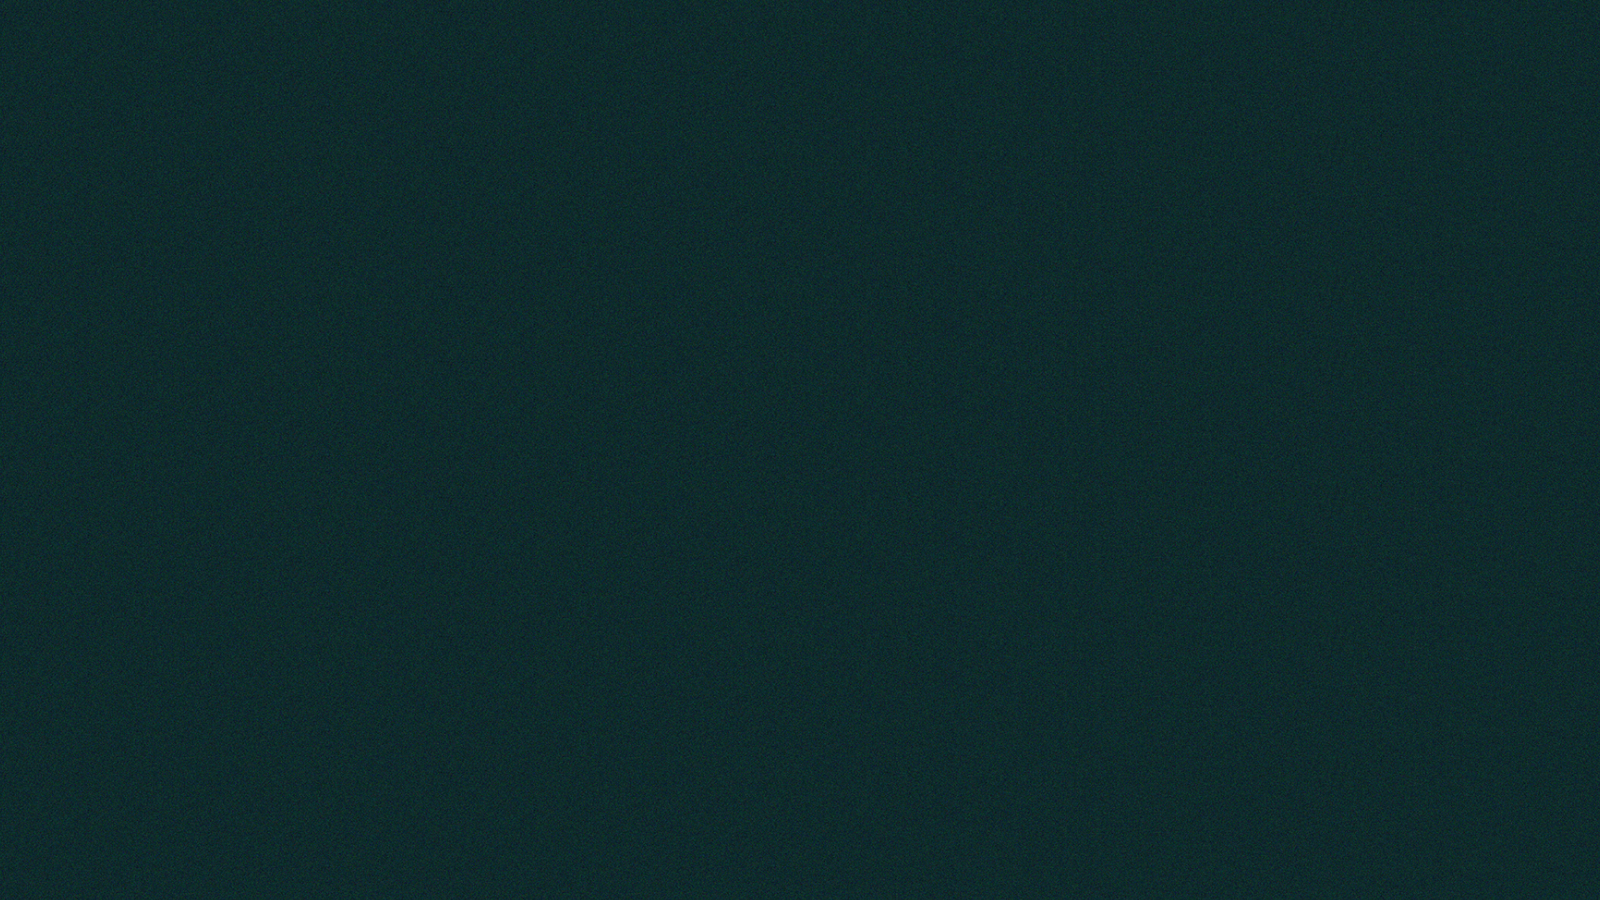
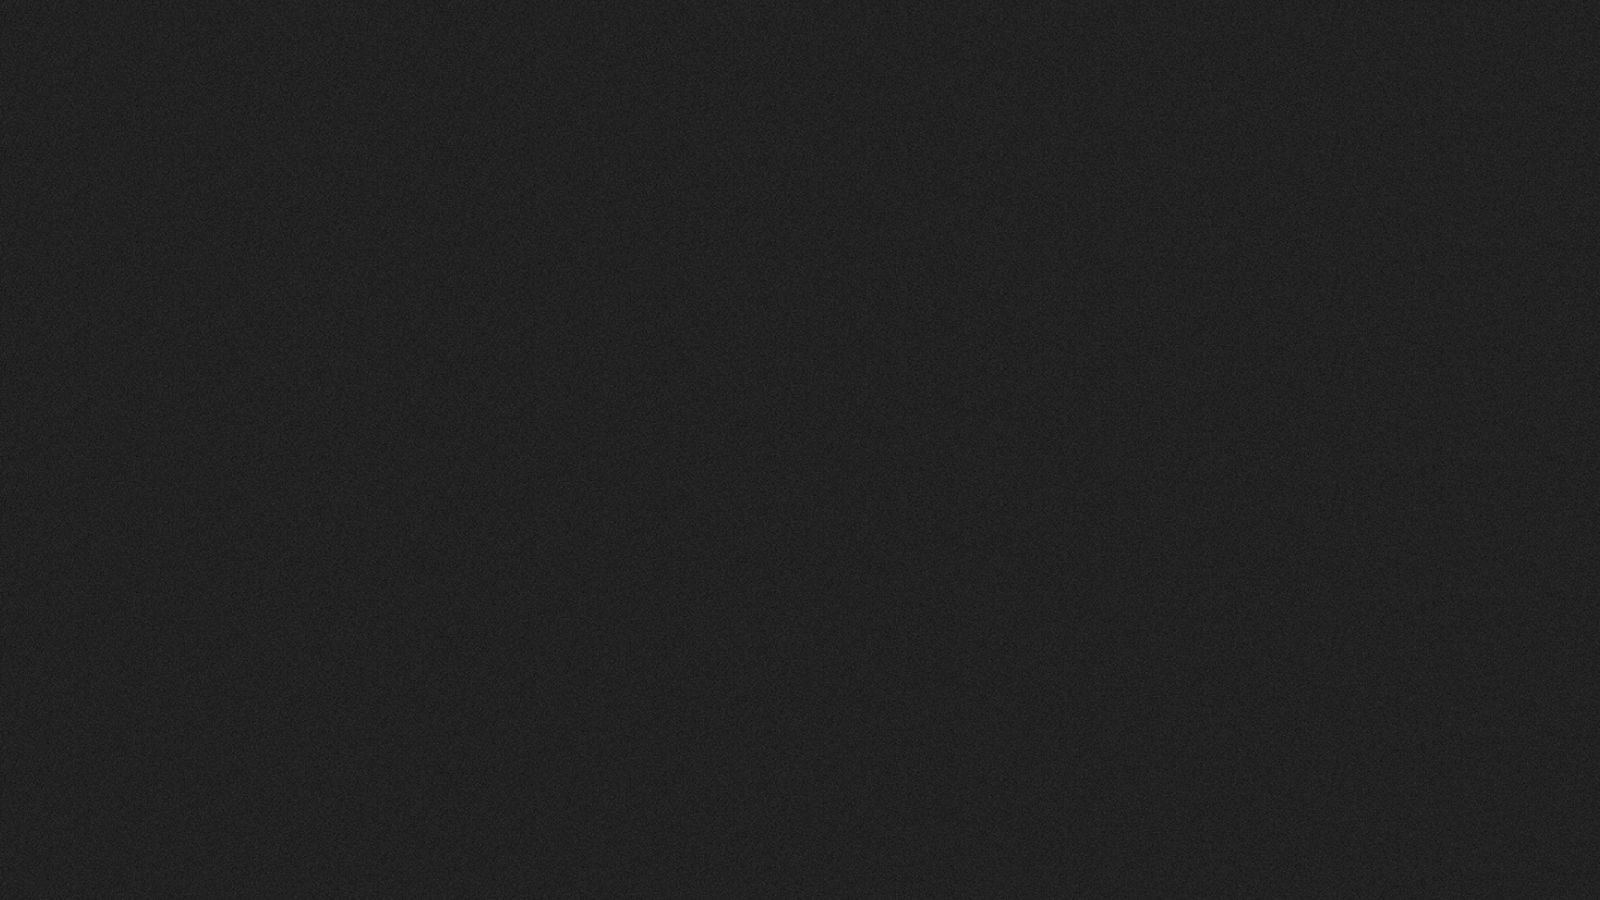
d

diff --git a/styles.css b/styles.css
@@ -192,9 +192,10 @@ div {
 .cuadro {
     width: 100%;
     height: 100vh;
-    background: linear-gradient(180deg, rgba(56, 56, 56, 0) 75%, rgba(255, 255, 255, 1) 95%);
-    justify-content: space-evenly;
+    /*background: linear-gradient(180deg, rgba(56, 56, 56, 0) 75%, rgba(255, 255, 255, 1) 95%);
+    */justify-content: space-evenly;
     background-size: cover;
+    background-image: url("https://raw.githubusercontent.com/rosteigen/rosteigen.github.io/main/Imgs/fondoNoise.png");
 
 }
 
@@ -257,7 +258,7 @@ div {
     justify-content: center;
     width: 100%;
     align-self: center;
-    background: white;
+    background-image: url("https://raw.githubusercontent.com/rosteigen/rosteigen.github.io/main/Imgs/fondoNoise.png");
     z-index: 6;
     position: relative;
 }
@@ -295,7 +296,7 @@ div {
 
 .skills {
     flex-direction: column;
-    background: white;
+    background-image: url("https://raw.githubusercontent.com/rosteigen/rosteigen.github.io/main/Imgs/fondoNoise.png");
     width: 100%;
     height: 100vh;
     z-index: 6;
@@ -313,7 +314,7 @@ div {
     position: relative;
     width: 100%;
     height: 100vh;
-    background-color: rgb(255, 255, 255);
+    background-image: url("https://raw.githubusercontent.com/rosteigen/rosteigen.github.io/main/Imgs/fondoNoise.png");
     z-index: 7;
     justify-content: center;
 }
@@ -384,7 +385,7 @@ div {
     flex-direction: column;
     width: 100%;
     align-items: center;
-    background: white;
+    background-image: url("https://raw.githubusercontent.com/rosteigen/rosteigen.github.io/main/Imgs/fondoNoise.png");
     z-index: 6;
     position: relative;
 }
@@ -394,6 +395,7 @@ div {
     margin: auto;
     margin-top: 50px;
     margin-bottom: 50px;
+    color: white;
 }
 
 .parte1,
